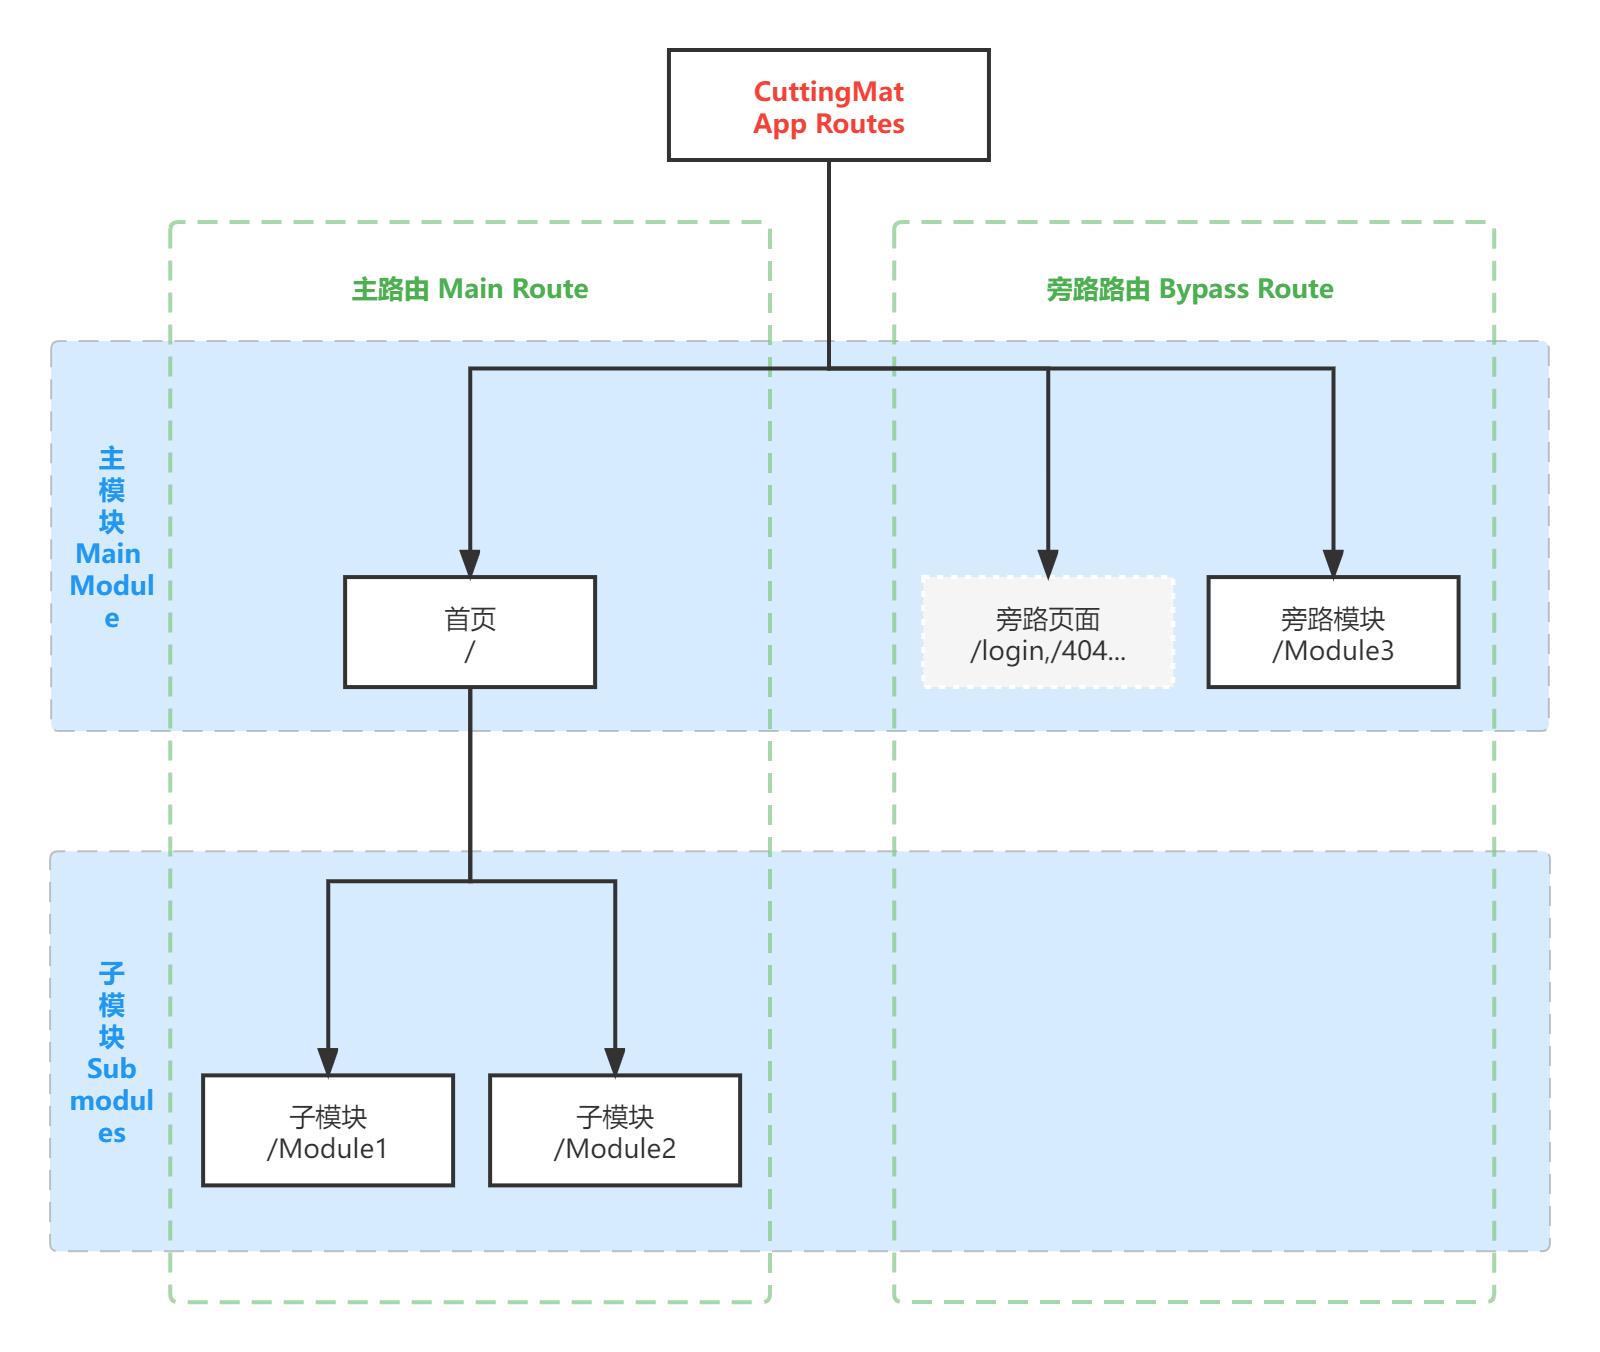
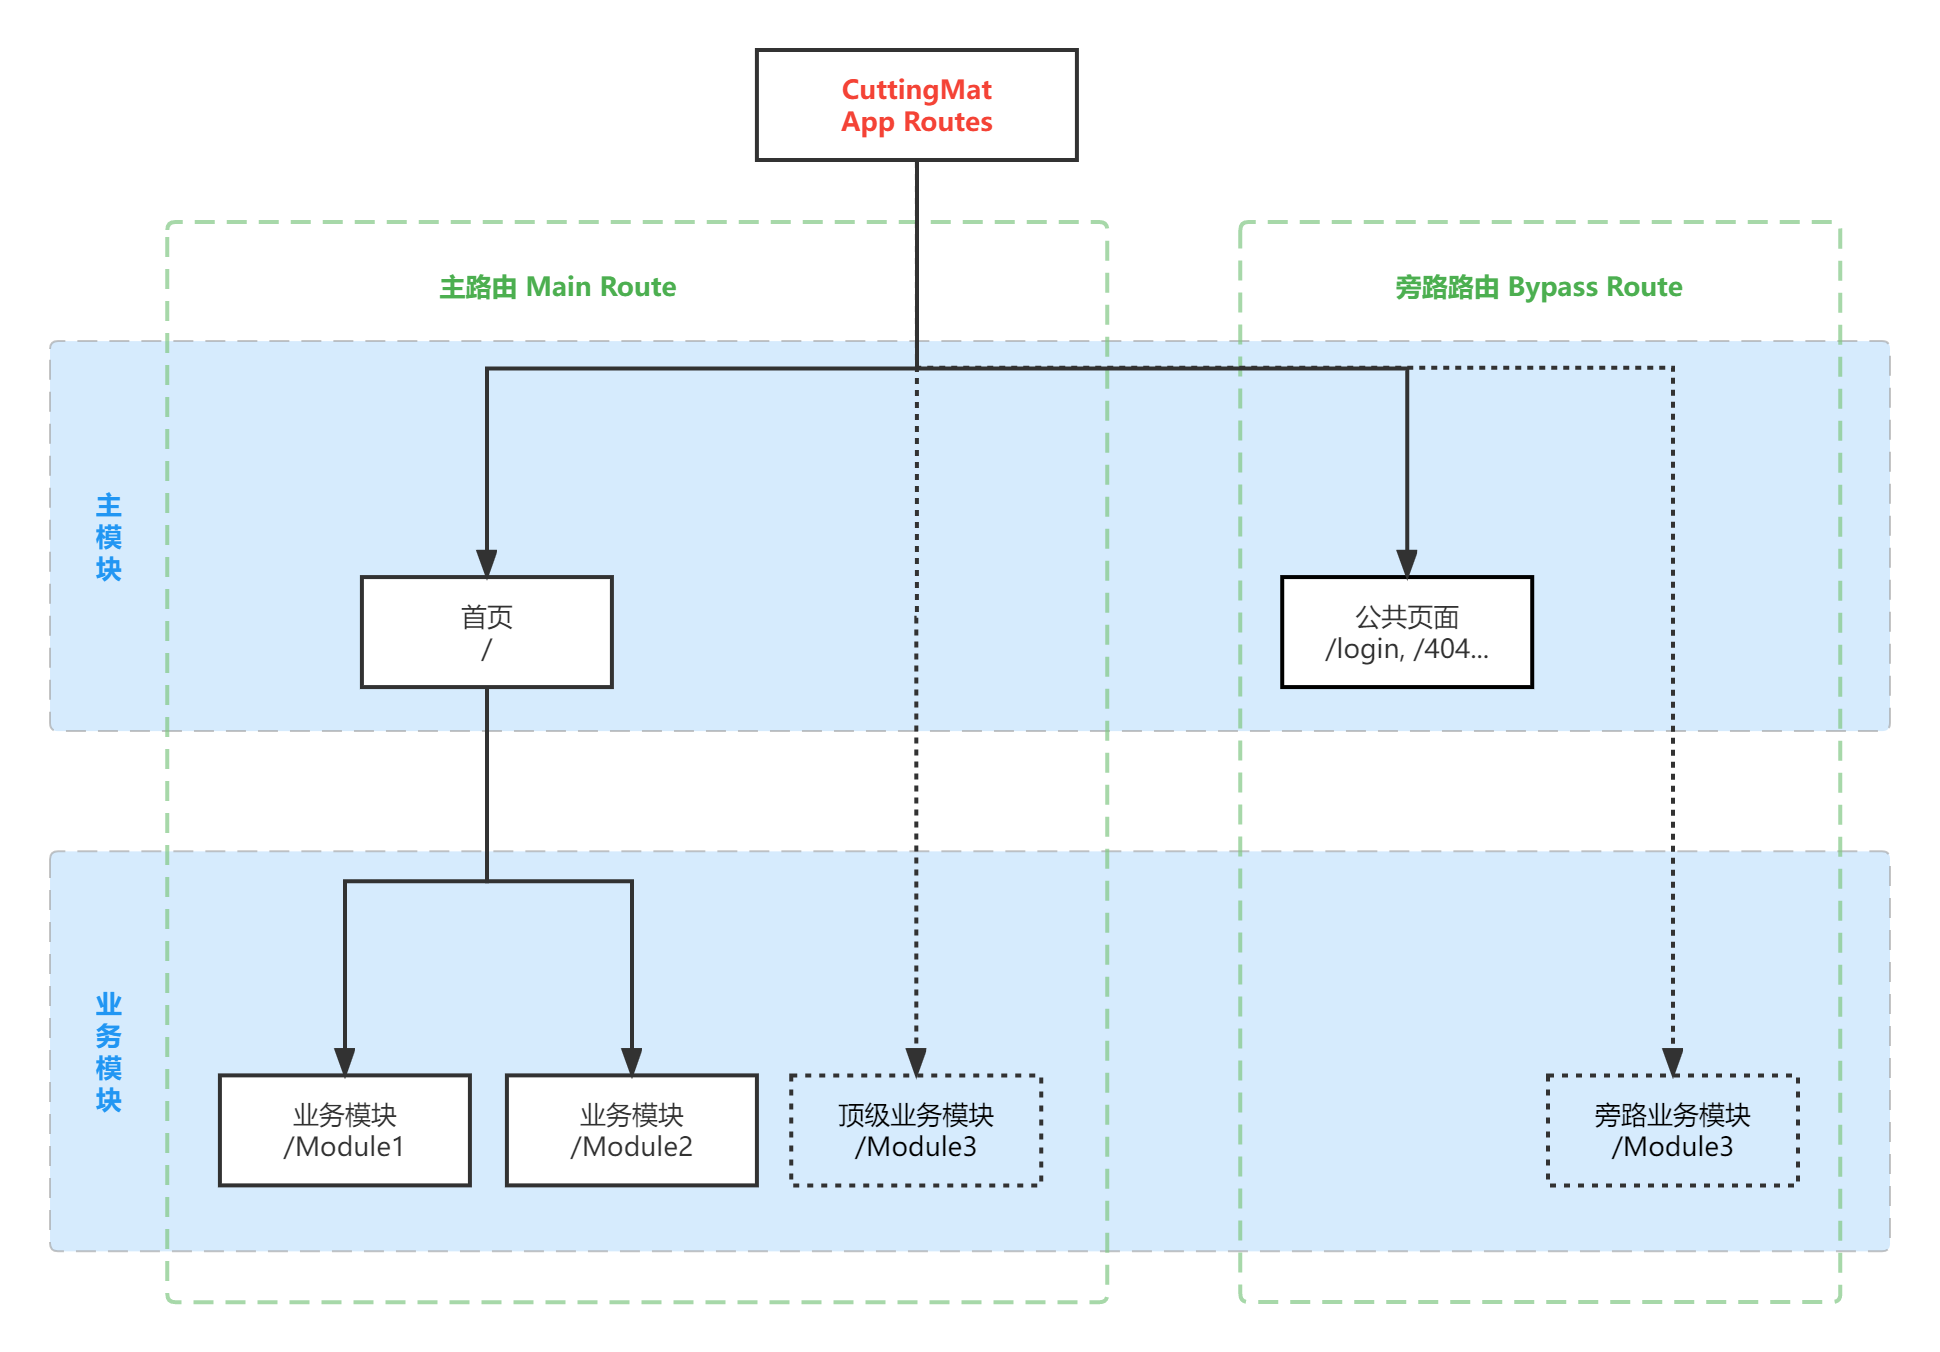
暂存

diff --git a/src/guide/intro-catalogue.md b/src/guide/intro-catalogue.md
@@ -1,23 +1,22 @@
 # 目录结构
 
-## 模块化设计
-
-CuttingMat 的目录结构是按业务拆分的模块化设计，非常适合多业务模块、多人协同开发的场景。当然，应对小型团队或小型项目更是不在话下。
+框架默认采用模块化目录结构，按业务拆分成若干独立模块，实现模块间开发解耦，非常适合多业务模块、多人协同开发的场景。当然，应对小型项目就更是不在话下。
 
 整体目录结构如下：
 
 ``` js
 |--public/ 
 |--src/
-|   |--__template/                  // 新模块模板
+|   |--__template/                  // 模块模板文件
 |   |--core/                        // 核心文件（框架）
 |   |--main/                        // 主模块
-|   |--system/                      // 子模块（内置系统管理）
-|   |--user/                        // 子模块（内置个人中心）
+|   |--system/                      // 业务模块（内置系统管理）
+|   |--user/                        // 业务模块（内置个人中心）
 |   |--App.vue                      // Vue 根组件
 |   |--main.js                      // 构建入口
-|   |--module.config.js             // 模块配置（框架）
+|   |--permission.config.js         // 权限模块配置（框架）
 |   |--request.config.js            // 请求配置（框架）
+|   |--route.config.js              // 路由配置（框架）
 |   |--store.config.js              // Store 配置（框架）
 |   |--upload.config.js             // 上传配置（框架）
 |   ·--vue-global-resource.js       // Vue 全局功能注册（框架）
@@ -29,30 +28,24 @@ CuttingMat 的目录结构是按业务拆分的模块化设计，非常适合多
 ·--vue.config.js                // Vue-CLI 配置
 ```
 
-除了眼熟的Vue-CLI标准模板文件，标注（框架）的文件是脚手架自身的功能实现和配置文件，忽略掉这些之后`src/`目录里只剩下一个主模块和两个子模块：
+除了眼熟的Vue-CLI标准模板文件，标注（框架）的文件是脚手架自身的功能实现和必要的配置文件，忽略掉这些之后`src/`目录里只剩下一个主模块和两个业务模块：
 
 ```js
 src/
   |--main (主模块)
-  |--system (子模块)
-  |--user (子模块)
+  |--system (业务模块)
+  |--user (业务模块)
   |--……
 
 ```
 
-这是框架的最主要特征：**以模块做为项目文件的基本组织单位**，根据业务模型，整个项目被拆分成物理意义上的一个主模块+若干子模块。
+这是框架的最主要特征：**以模块做为项目文件的基本组织单位**，根据业务模型，整个项目被拆分成物理意义上的若干模块文件夹。
 
-模块化的目录结构可以将开发者从大型项目的代码管理压力中解放出来，开发过程可以始终将关注点聚焦在当前模块文件夹内，将模块间的干扰降到最低。
+## 模块化设计
 
-## 主模块与子模块
+每个模块文件夹包含该模块业务开发需要的所有文件，包括：接口定义、静态文件（图片、样式、脚本）、组件、路由配置，除了核心功能和跨模块复用的功能外，一个模块完全可以自给自足。因此，开发者在开发过程中可以始终将关注点聚焦在当前模块内，从而将大型前端项目的代码管理压力降到最低。
 
-所谓主模块与子模块，实际上就是 Vue 中的路由与子路由的关系，主模块就是实现了项目根路由（`'/#/'`）的模块，子模块就是实现其他子路由的模块。每个模块都包含自己的 API、静态资源、组件、页面等文件，并且**模块必须输出自己的路由**。
-
-主模块与子模块通过模块配置文件（`@/module.config.js`）定义，被定义成子模块的路由会被自动挂载到根路由（`'/#/'`）的`children`节点，组成项目最终的路由。
-
-以模块为单位的路由注册，天然实现了各业务模块的开发解耦，开发过程中各个模块通常只修改自己的文件，只要路由没有最终注册到项目中，就基本不会发生代码冲突。
-
-模块的内部结构从技术上没有限制，但为了统一风格便于协作，我们约定模块目录结构如下：
+模块的内部结构在技术上并没有限制，但为了统一风格便于协作，我们约定模块的目录结构如下：
 
 ``` js
     |--api/                             // 请求接口
@@ -69,10 +62,52 @@ src/
     ·--index.js                         // 模块路由
 ```
 
-模块内部的路由结构没有限制，但建议将从属于同一功能模块的页面由一个共同的主页组成[嵌套路由](https://router.vuejs.org/zh/guide/essentials/nested-routes.html)，便于实现主界面样式，以及在主页挂载 scopeClass，使用`.scopeClass >>> .moudleClass`语法实现模块级通用样式。
+每个模块可以根据自己的业务范围输出一个路由数组，最终所有模块的路由都将在路由配置文件（`@/route.config.js`）中汇合。比如系统设置模块的路由可能是这样的：
+
+``` js
+export default [{
+    path: '/system',
+    name: '系统设置',
+    meta: {
+        icon: "&#xe606;"
+    },
+    component: (resolve) => require(['./views/Index.vue'], resolve),
+    redirect: '/system/account',
+    children: [{
+        path: 'account',
+        name: '账号管理',
+        component: (resolve) => require(['./views/AccountList.vue'], resolve)
+    }, {
+        path: 'role',
+        name: '角色管理',
+        component: (resolve) => require(['./views/RoleList.vue'], resolve)
+    }, {
+        path: 'resource',
+        name: '资源管理',
+        component: (resolve) => require(['./views/ResourceList.vue'], resolve)
+    }, {
+        path: 'dict',
+        name: '字典管理',
+        meta: {
+            icon: '&#xe601;'
+        },
+        component: (resolve) => require(['./views/Dict.vue'], resolve)
+    }]
+}]
+```
+
+以模块为单位的路由注册，天然实现了各业务模块的开发解耦，开发过程中各个模块通常只修改自己的文件，只要路由没有最终注册到项目中，就基本不会发生代码冲突。
+
+## 主模块与业务模块
+
+严格来说所有模块都是平等的，并无主次之分，所谓的主模块和业务模块，实际上是基于一种约定成俗的网站结构：站点首页与其他页面都采用相同的页面主体布局，[嵌套路由](https://router.vuejs.org/zh/guide/essentials/nested-routes.html)正是为这种场景而设计的，与之对应的路由结构是首页作为根路由（`'/'`），其他所有路由均为做首页的子路由（或后代路由），从而共享首页的页面布局。主模块就是实现了网站首页的模块，业务模块则主要实现其他页面。
+
+除了路由中至少要包含根路由（`'/'`），主模块通常也作为公共资源模块。比如框架内置的主模块还实现了登录页、错误页这种公共路由；像上传这种不专属任何业务模块的公共接口也可以定义在主模块里。
+
+模块的路由结构没有限制，但建议将从属于同一功能模块的页面由一个共同的主页组成[嵌套路由](https://router.vuejs.org/zh/guide/essentials/nested-routes.html)，便于实现模块级通用样式。
 
 ```js
-/#/subMoudle/List
+/#/MoudleName
 +------------------------+ 
 | ./views/Index.vue      |
 | +--------------------+ |

diff --git a/src/guide/intro-routes.md b/src/guide/intro-routes.md
@@ -1,16 +1,12 @@
 # 路由结构
 
-## 路由结构设计
+路由结构一方面是站点页面结构的自然体现，另外路由结构也要满足访问控制相关功能（比如用户鉴权、权限控制）的需求。
 
-路由结构一方面是项目结构的自然体现，另外路由结构也要满足访问控制相关功能（比如用户鉴权、权限控制）的需求。
+从访问控制的角度，框架将路由分成**主路由与旁路路由**。以模板项目为例，首页及其所有子路由组成主路由，除首页外主模块也可以包含其他路由或子路由，这些就是旁路路由，不受访问限制。
 
 结合这两个角度，框架的路由结构设计如下图所示：
 
 ![路由结构设计](/assets/img/路由结构设计.png)
-
-横向是从目录结构的角度将路由分成****主模块与子模块****。主模块必须要实现根路由（`'/#/'`），也就是首页，子模块会挂载为首页的子路由。
-
-纵向是从访问控制的角度将路由分成****主路由与旁路路由****。首页及其所有子路由组成主路由，除首页外主模块也可以包含其他路由或子路由，这些就是旁路路由，不受访问限制。
 
 ## 主路由与旁路路由
 
@@ -22,14 +18,14 @@
 
 关于访问控制功能的详细信息可以参考文档相关内容。
 
-主路与旁路的区分，是通过以下约定隐式体现在模块配置中的：
+主路与旁路的区分，是通过以下约定隐式体现在路由配置中的：
 
 1. **主模块数组的第一个对象必须是首页('/')路由**
-2. **子模块路由将自动挂载为首页('/')的子路由，组成主路由；主模块除首页外的其余路由为旁路路由**
+2. **业务模块路由将自动挂载为首页('/')的子路由，组成主路由；主模块除首页外的其余路由为旁路路由**
 
 ## 配置路由
 
-理解了以上概念，配置路由就很简单。只需要在路由配置文件（`@/module.config.js`）中指定`mainModule`（主模块）和`subModules`（子模块），剩下的框架会自动处理。
+理解了以上概念，配置路由就很简单。只需要在路由配置文件（`@/route.config.js`）中指定`mainModule`（主模块）和`subModules`（业务模块），剩下的框架会自动处理。
 
 ```js
 // 主模块
@@ -41,12 +37,12 @@ export const mainModule = [
     ...bypass           // 旁路模块
 ] 
 
-// 子模块
+// 业务模块
 import system from '@/system'
 import user from '@/user'
 
 export const subModules =  [
-    ...system,          // 子模块会自动挂载为根路由'/'的children
+    ...system,          // 业务模块会自动挂载为根路由'/'的children
     ...user,
 ]
 
@@ -57,8 +53,8 @@ export const subModules =  [
 实际项目中路由数据也可以用于实现站点的导航菜单，在不开启前端权限控制（`access-control`）的情况下，路由配置中的`subModules`数组实际上也可以作为站点导航菜单的数据源，而且可以灵活配置模块顺序和`meta`信息，实现自定义展示效果。
 
 ```js
-// 子模块路由可以用于实现导航菜单
-import { subModules } from "@/module.config";
+// 业务模块路由可以用于实现导航菜单
+import { subModules } from "@/route.config";
 
 ```
 

diff --git a/src/guide/getting-started.md b/src/guide/getting-started.md
@@ -74,25 +74,29 @@ export default [{
 
 3. 注册模块路由
 
-然后打开项目的模块配置文件（`@/module.config.js`），将新模块注册为子模块：
+然后打开项目的路由配置文件（`@/route.config.js`），将新模块注册到主路由中：
 
 ```js
 ...
-// 子模块
+// 主模块
+import main from '@/main/index'
+
+// 业务模块
 import system from '@/system'
 import user from '@/user'
 + import myFirstMoudle from '@/myFirstMoudle'
 
-export const subModules =  [
-+    ...myFirstMoudle,
-    ...system,
-    ...user,
-]
+// 主路由
+export const MainRoute = [Object.assign({}, main[0], {
+    children: [
++       ...myFirstMoudle,
+        ...system,
+        ...user,
+    ]
+})];
 
 ```
 
 这样新模块就创建完成了，启动开发服务，新路由（ http://localhost:8080/#/myFirstMoudle ）已经可以访问。
 
 模块包含自己的 API、静态资源、组件、页面和路由，如果你熟悉Vue开发，接下来该如何继续就很简单了。
-
-如果仍有疑问，可以继续浏览文档其他内容。

diff --git a/src/guide/community.md b/src/guide/community.md
@@ -1,15 +1,15 @@
 # 社区
 
-## 技术博客：refined-x.com
+## 原创博客
 
-[前端路上](https://refined-x.com/)：原创前端技术博客
+[前端路上](https://refined-x.com/)
 
-## QQ群：361917044
+## QQ群
 
-前端开发交流群
+前端开发交流群：361917044
 
 ## 微信群
 
-前端开发交流群
+前端开发交流群(备注：加群)
 
 ![refned_x](https://frontend-weekly.com/img/a/refined-x.jpg)

diff --git a/src/guide/guide-config.md b/src/guide/guide-config.md
@@ -1,1 +1,1 @@
-# 进阶配置
+# 配置参考
